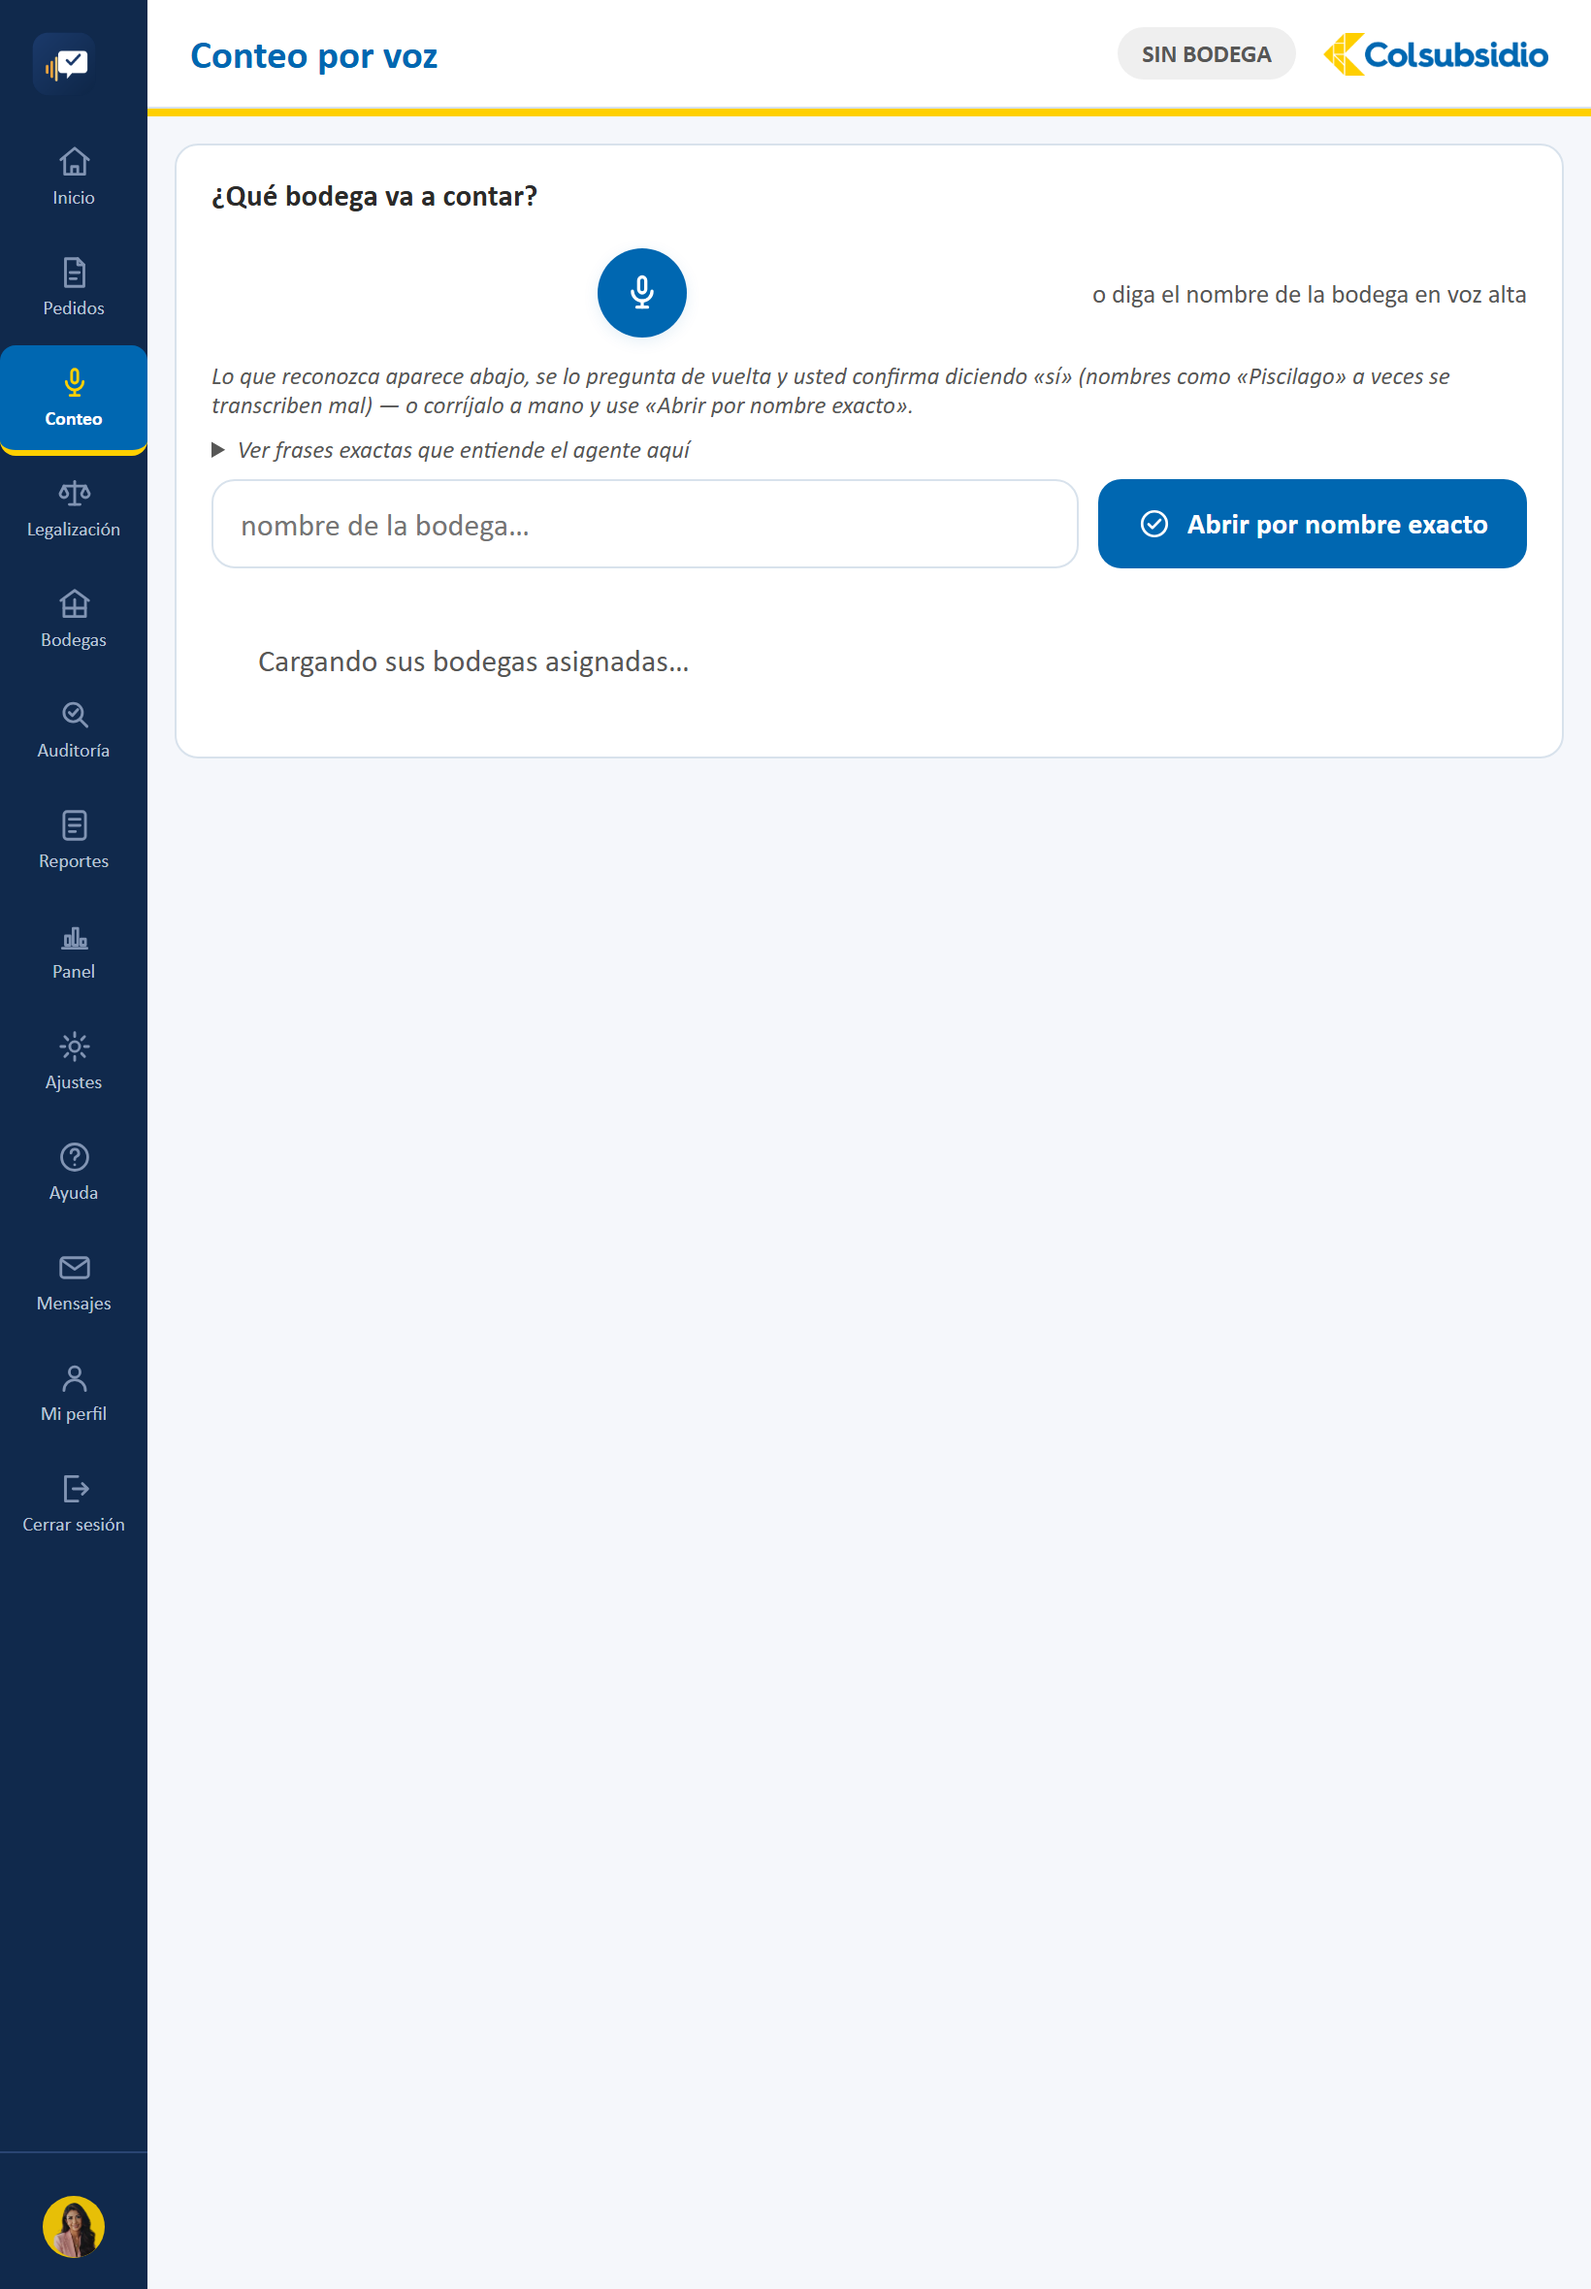
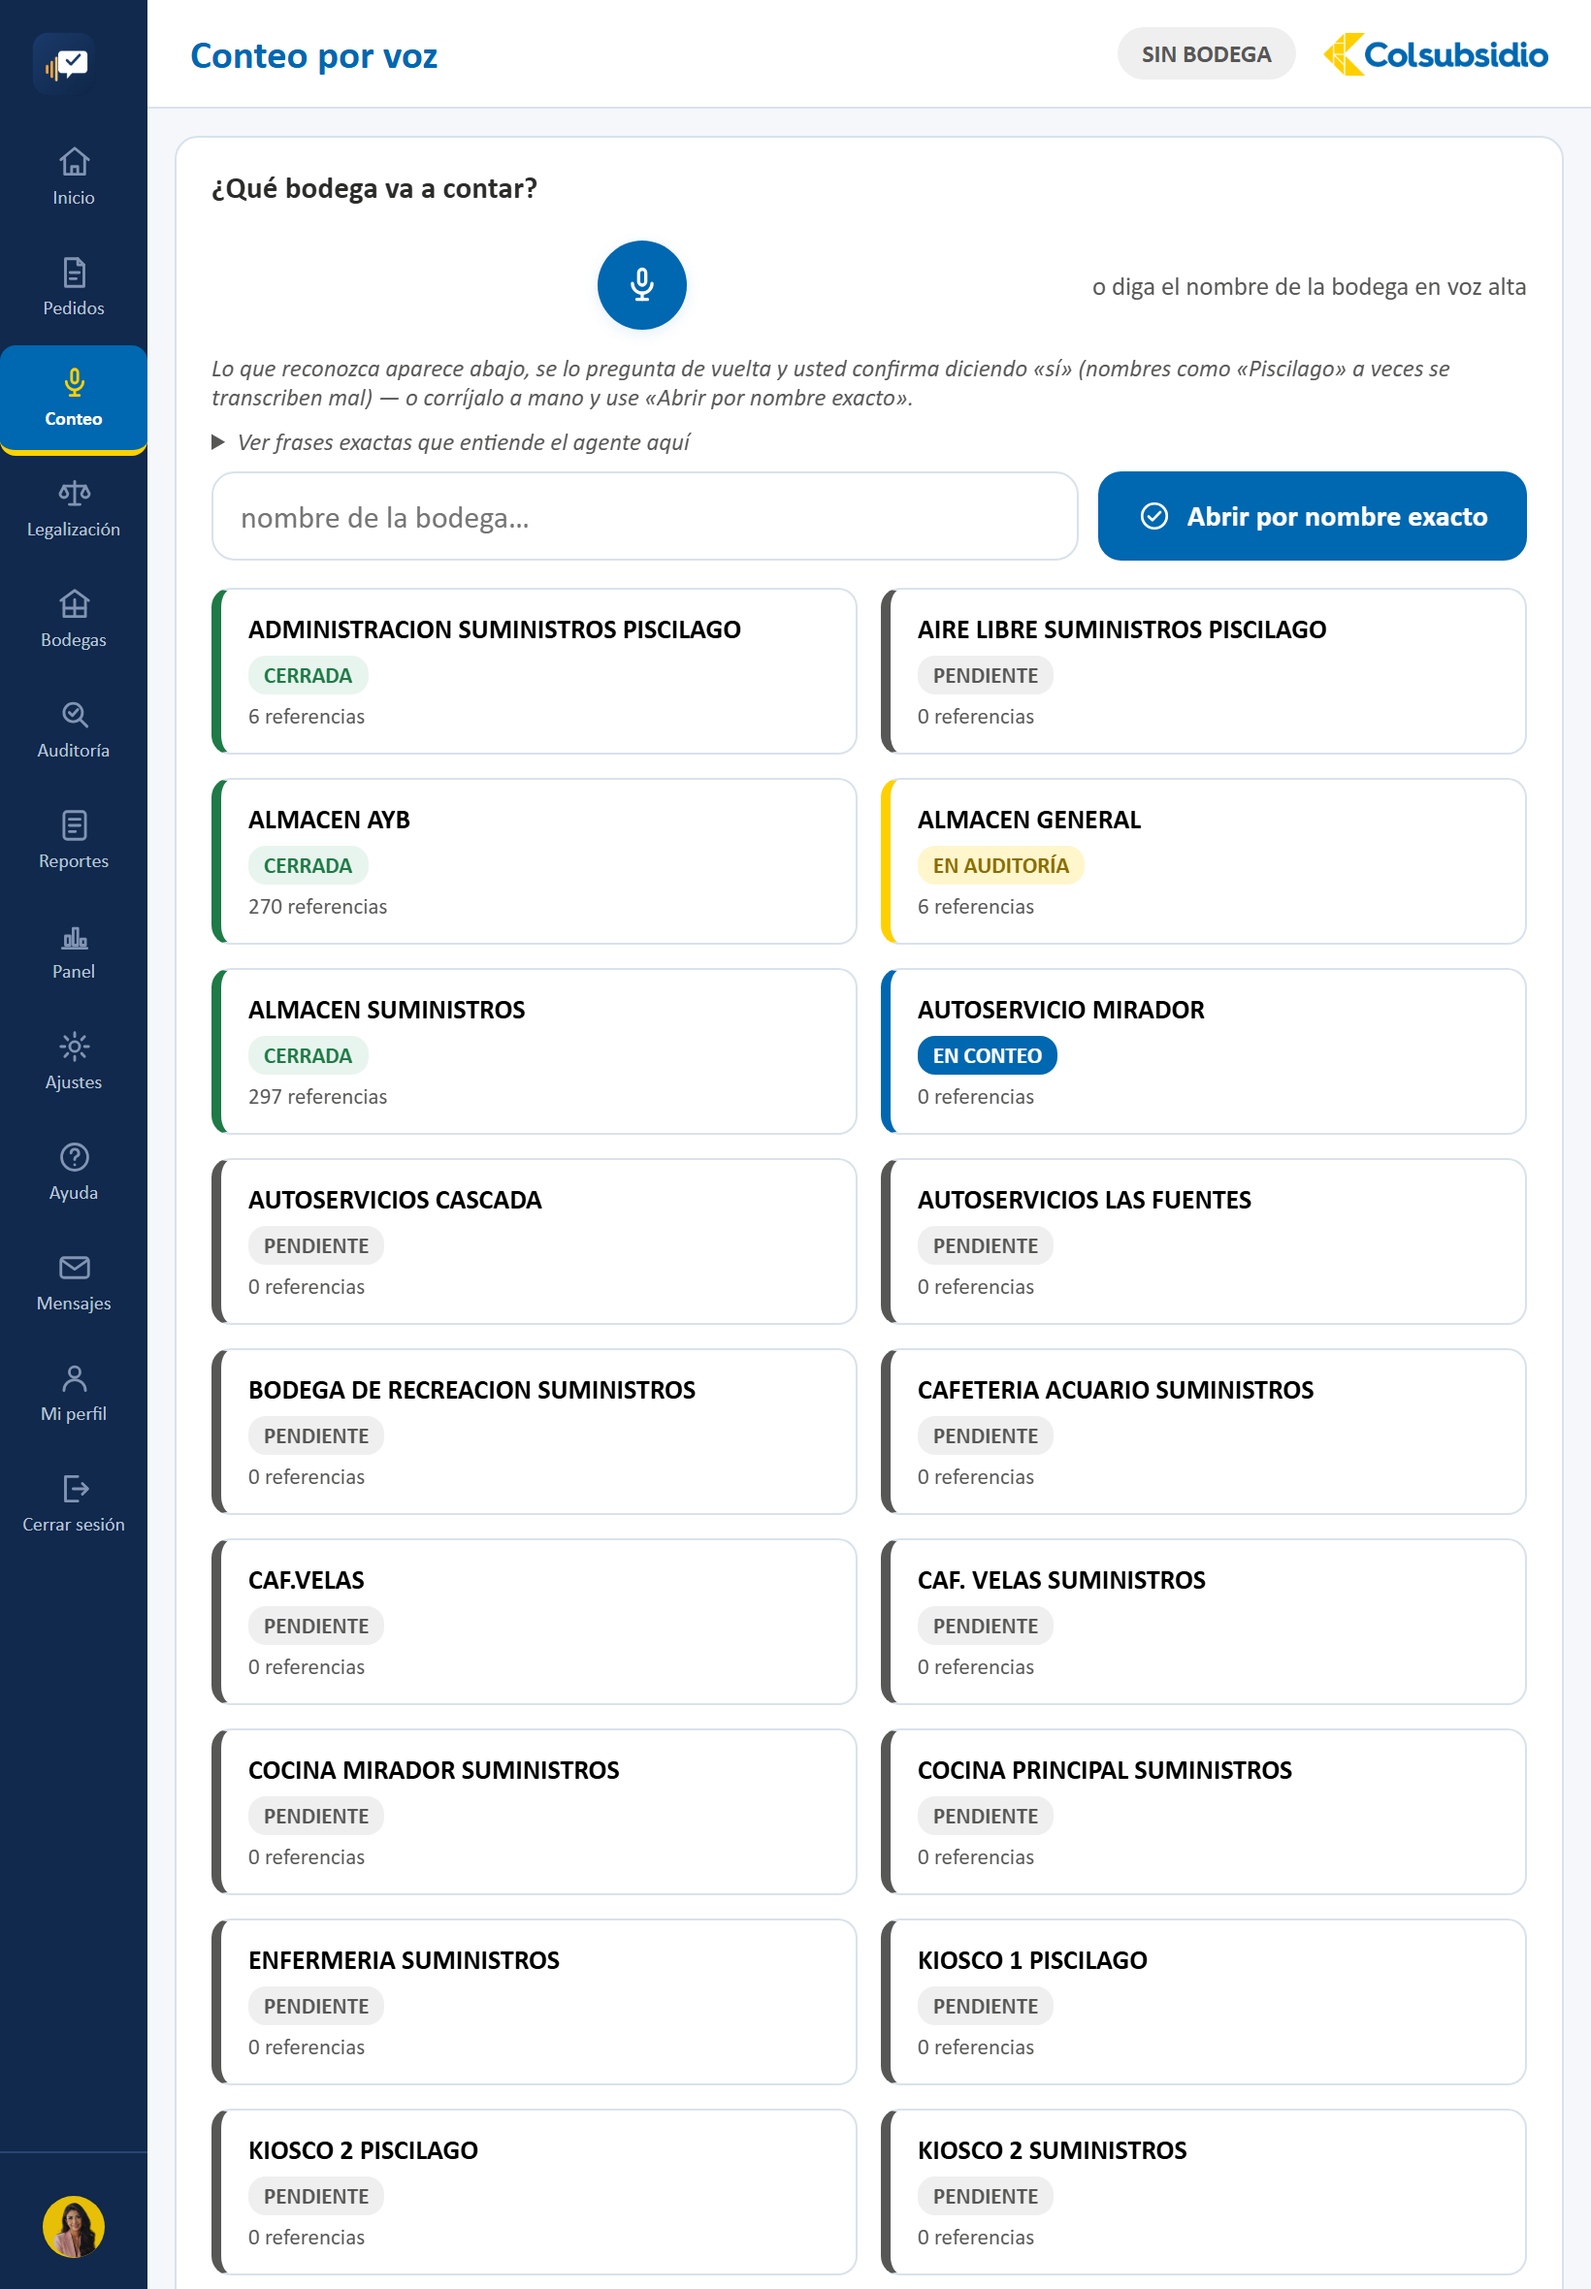
Arregla redaccion de Legalizacion en el README y recaptura Conteo
La fila de Legalizacion en la tabla de momentos no tenia verbo,
rompiendo el paralelismo con las otras dos filas. La captura de
Conteo en modo tablet habia quedado tomada a medio cargar, mostrando
"Cargando sus bodegas asignadas..." en vez de la grilla real.

diff --git a/README.md b/README.md
@@ -114,7 +114,7 @@ archivos; el backend necesita correr código de verdad) — ver
 |---|---|---|
 | **1. Pedido al almacén** | menú Pedidos | «hoy preparamos cincuenta ajiacos» → explota la receta, descuenta el stock y pide solo lo que falta |
 | **2. Toma física** | menú Conteo y Bodegas | dicta y el agente concilia, valida y registra |
-| **3. Legalización** | menú Legalización | lo pedido contra lo usado, con sobrante y merma explicados |
+| **3. Legalización** | menú Legalización | concilia lo pedido contra lo usado, con sobrante y merma explicados |
 
 ### 🛡 Lo que valida antes de guardar
 
